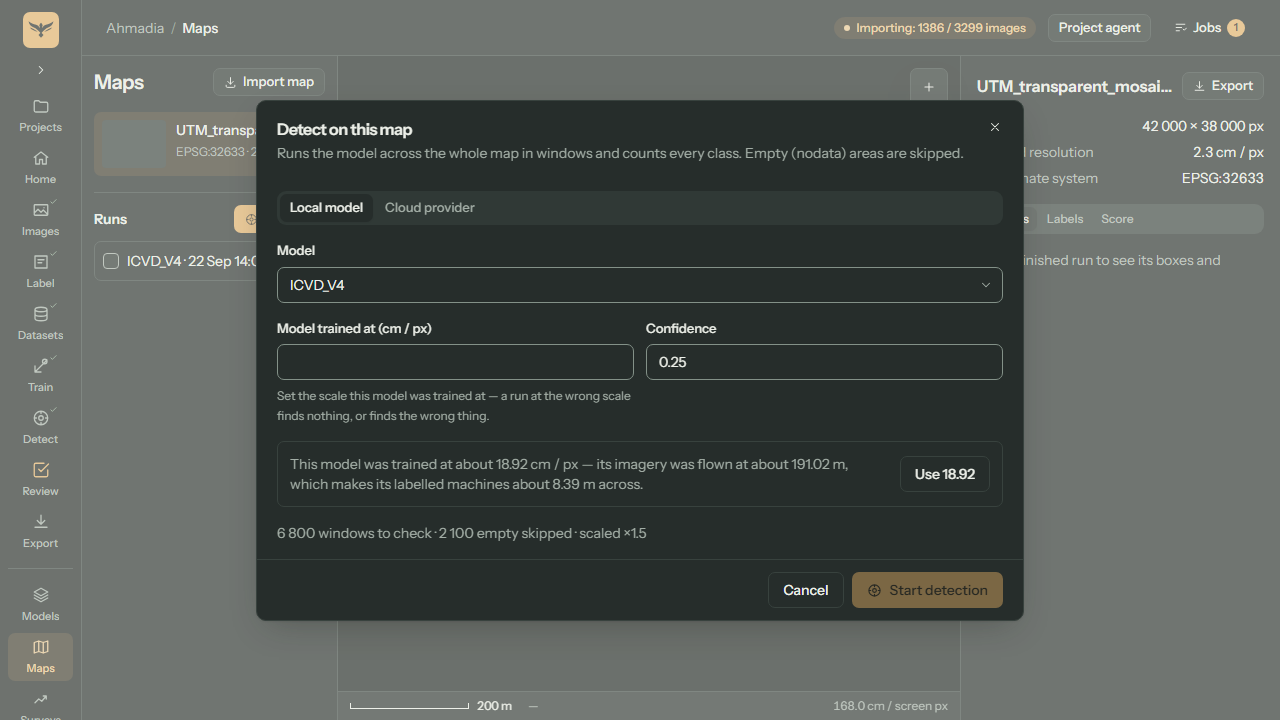
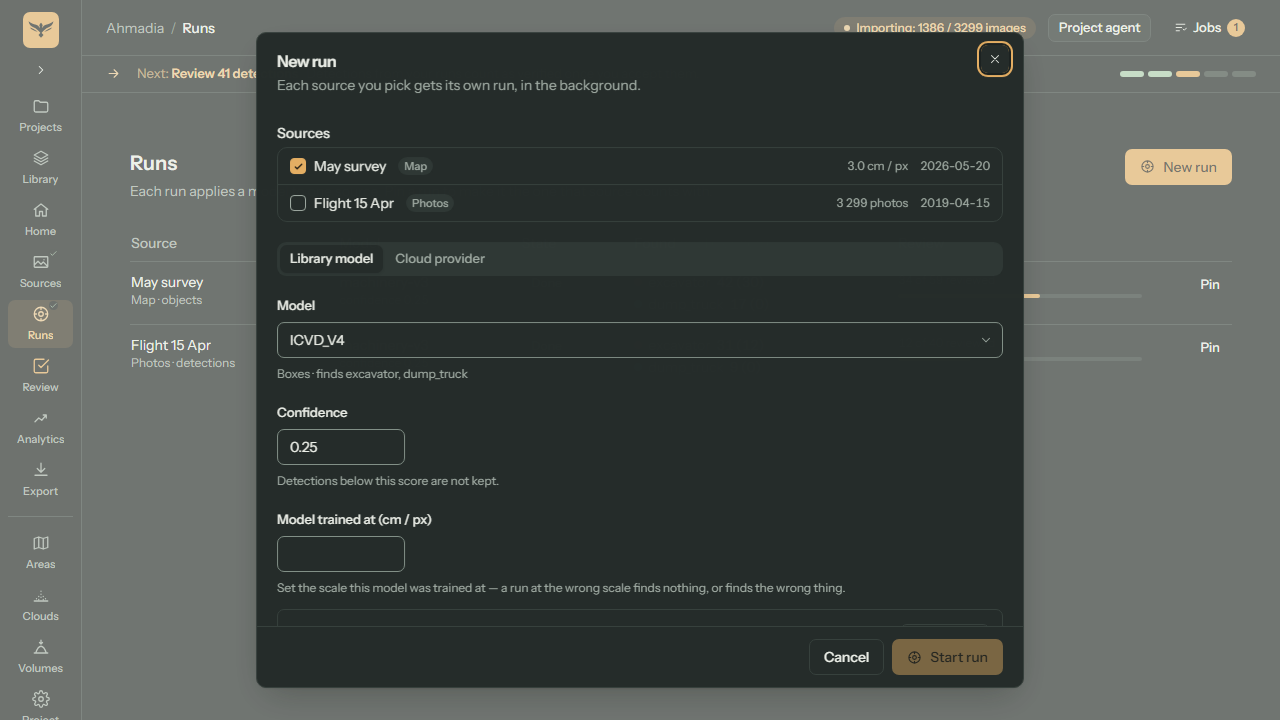
fix(e2e,fmt): the evidence test drives main's run dialog, and prettier
The evidence test was written against the map viewer's own "New run" dialog, which
main replaced with the Runs screen's `RunDialog`. It now opens
`/p/{id}/runs?source={map source}`, overrides the library model list with a
trained model that has a dataset in its provenance and no `train_gsd_cm`, and
asserts the same three things: the offer carries its evidence, the field is empty
and Start is disabled at that moment, and accepting it fills the field and PATCHes
the library model. Screenshot refreshed from the new screen.

diff --git a/frontend/e2e/model-gsd.spec.ts b/frontend/e2e/model-gsd.spec.ts
@@ -5,6 +5,7 @@ import { asDetectionProject, fromMock, jsonReply } from "./kinds";
 // The contract's examples: the detection project and its map source.
 const P = "7f1c2e3a-1111-4000-8000-000000000001";
 const MAP_SOURCE = "50000000-3333-4000-8000-000000000002";
+const MODEL = "m0000000-2222-4000-8000-000000000001";
 
 // The scale a model trained on senseFly Aeria X imagery flown at ~191 m is actually derived at:
 // the real numbers from the backend's gsd-estimate test, not invented ones (spec section 3).
@@ -33,12 +34,9 @@ test.beforeEach(({ page }) => asDetectionProject(page, P));
 test("a model with no training scale offers its derived one, with the evidence for it", async ({
   page,
 }) => {
-  const example = await fromMock<Record<string, unknown>>(
-    page,
-    "/api/v1/library/models/m0000000-2222-4000-8000-000000000001",
-  );
+  const example = await fromMock(page, `/api/v1/library/models/${MODEL}`);
   // ICVD_V4 as it really was: trained, with a dataset in its provenance, and no scale recorded.
-  const model = { ...example, name: "ICVD_V4", train_gsd_cm: null };
+  const model: Record<string, unknown> = { ...example, name: "ICVD_V4", train_gsd_cm: null };
   await page.route(
     (u) => u.pathname === "/api/v1/library/models",
     (route) =>
@@ -47,14 +45,14 @@ test("a model with no training scale offers its derived one, with the evidence f
         : route.fallback(),
   );
   await page.route(
-    (u) => u.pathname.endsWith(`/library/models/${model.id as string}/gsd-estimate`),
+    (u) => u.pathname.endsWith(`/library/models/${MODEL}/gsd-estimate`),
     (route) => route.fulfill(jsonReply(gsdEstimate)),
   );
   const patched = page.waitForRequest(
-    (r) => r.method() === "PATCH" && r.url().endsWith(`/library/models/${model.id as string}`),
+    (r) => r.method() === "PATCH" && r.url().endsWith(`/library/models/${MODEL}`),
   );
   await page.route(
-    (u) => u.pathname === `/api/v1/library/models/${model.id as string}`,
+    (u) => u.pathname === `/api/v1/library/models/${MODEL}`,
     (route) =>
       route.request().method() === "PATCH"
         ? route.fulfill(jsonReply({ ...model, train_gsd_cm: gsdEstimate.train_gsd_cm }))

diff --git a/frontend/src/runs/RunDialog.tsx b/frontend/src/runs/RunDialog.tsx
@@ -405,10 +405,7 @@ export function RunDialog({
                 />
               </Field>
               {offer && (
-                <div
-                  className="flex items-center gap-3 rounded-md border border-line p-3"
-                  aria-live="polite"
-                >
+                <div className="flex items-center gap-3 rounded-md border border-line p-3" aria-live="polite">
                   <p className="flex-1 text-sm text-muted">
                     {`This model was trained at about ${offer.train_gsd_cm} cm / px — its imagery was flown at about ${offer.median_alt_m} m, which makes its labelled machines about ${offer.median_object_m} m across.`}
                   </p>

diff --git a/frontend/src/api/library.ts b/frontend/src/api/library.ts
@@ -66,9 +66,7 @@ export async function importLibraryModel(api: ApiClient, body: LibraryModelImpor
  * longer opens, or imagery with no usable camera EXIF.
  */
 export function fetchModelGsdEstimate(api: ApiClient, modelId: string): Promise<ModelGsdEstimate> {
-  return unwrap(
-    api.GET("/api/v1/library/models/{modelId}/gsd-estimate", { params: { path: { modelId } } }),
-  );
+  return unwrap(api.GET("/api/v1/library/models/{modelId}/gsd-estimate", { params: { path: { modelId } } }));
 }
 
 export function updateLibraryModel(
